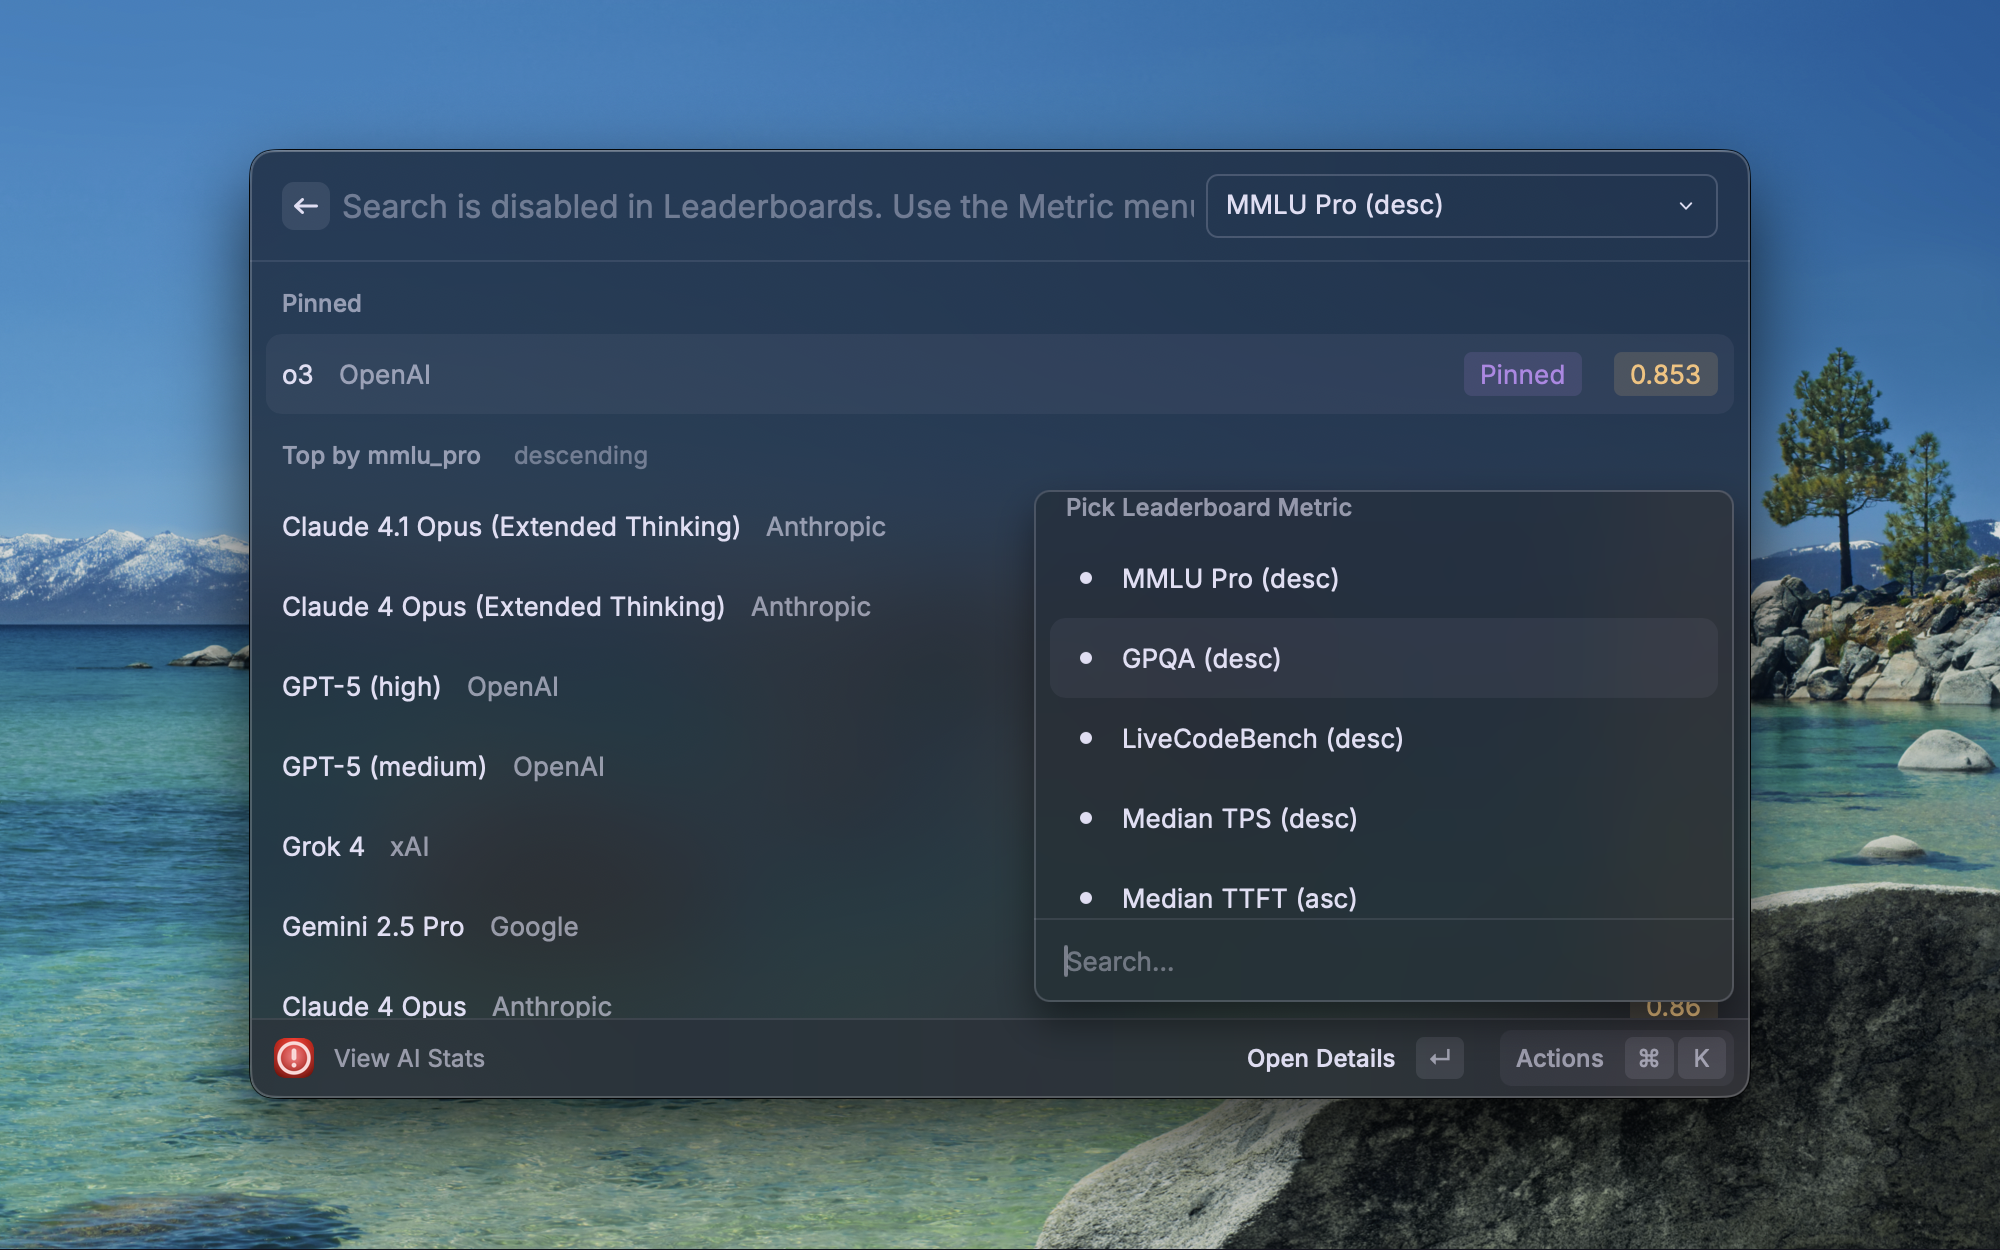
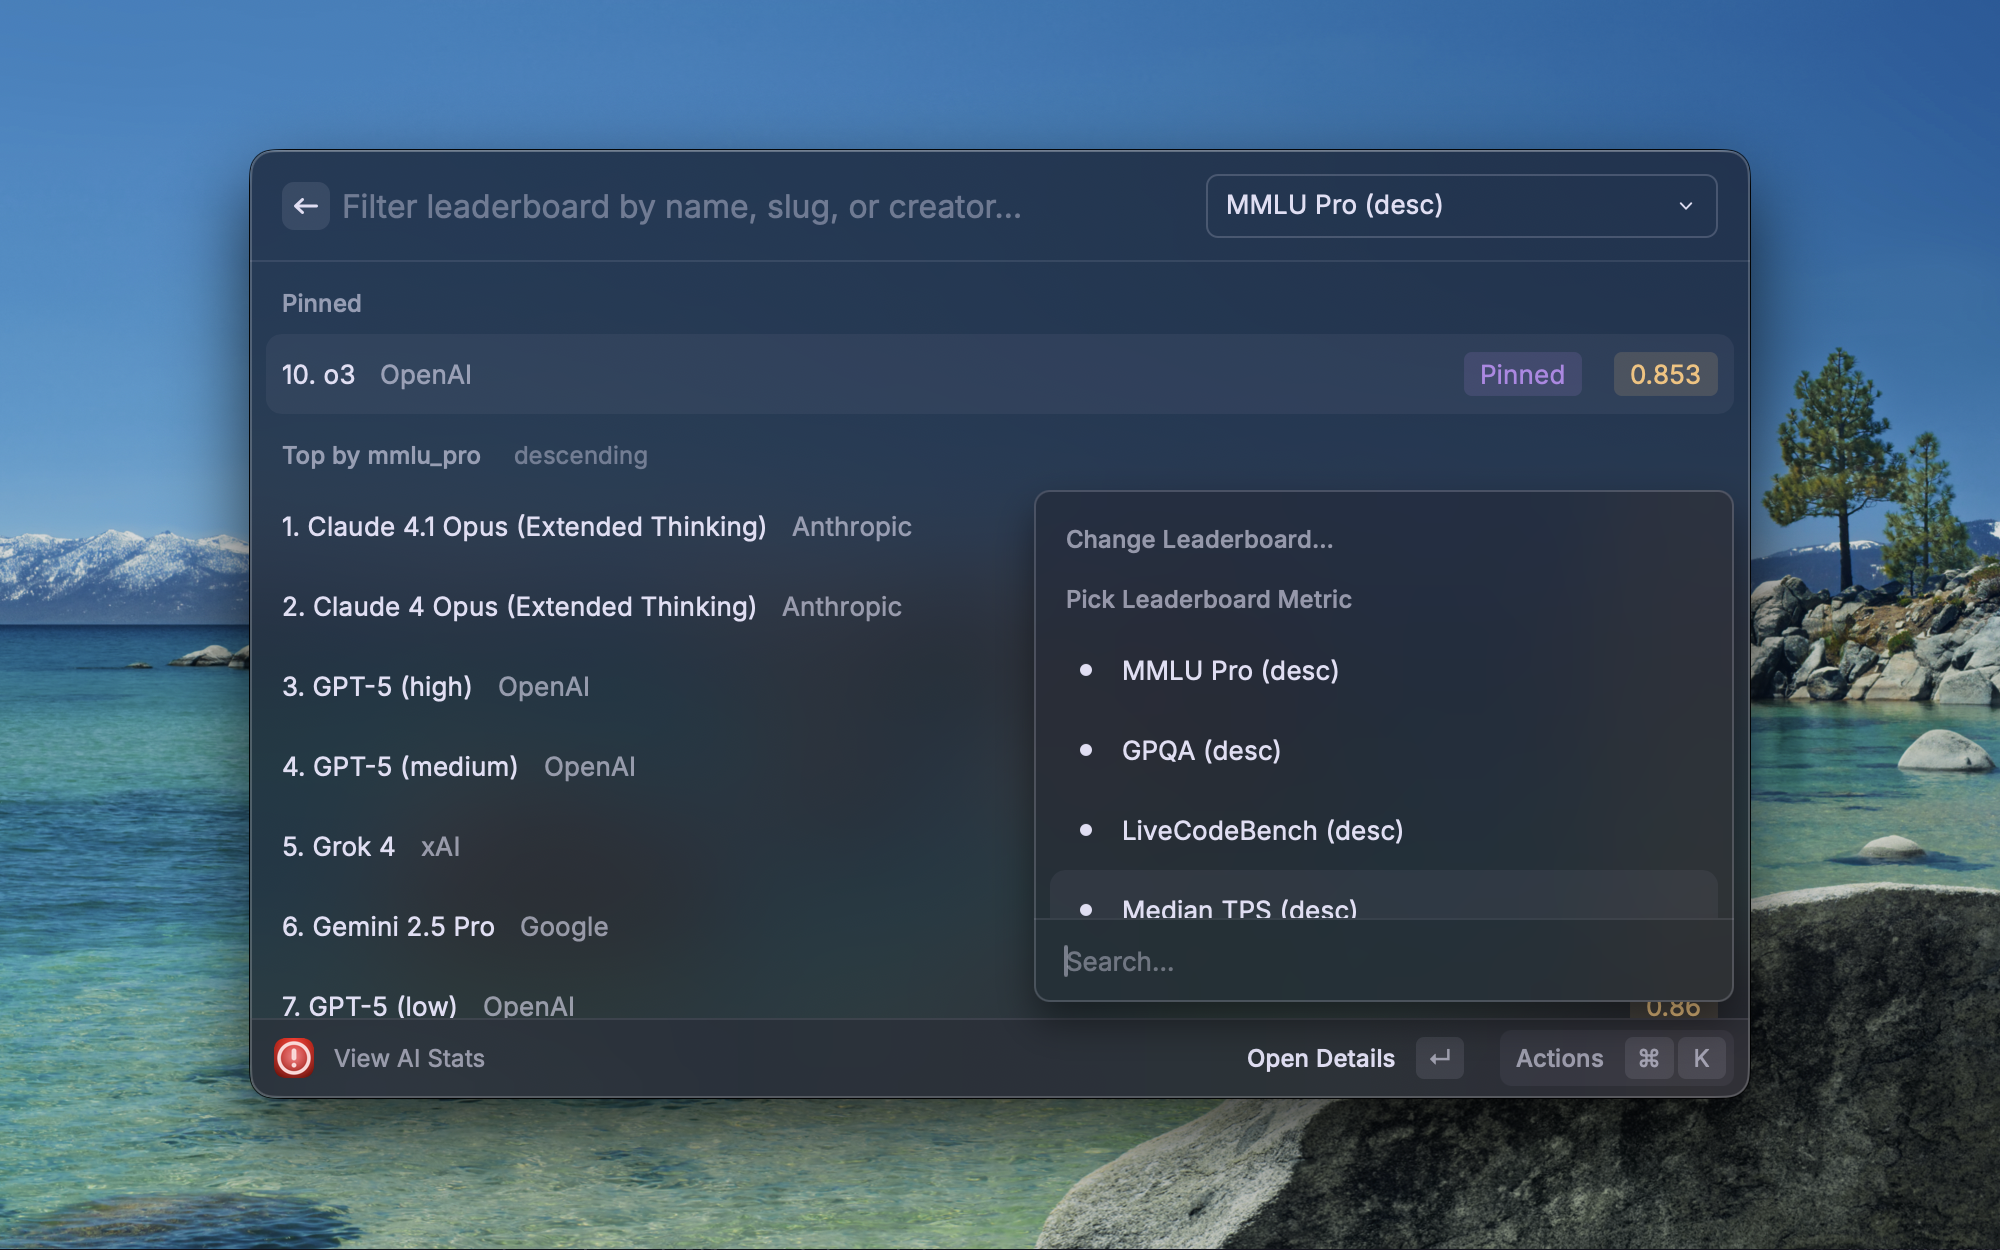
fix: smooth loading: centered spinners + ~120ms gating, skeletons added, no duplicate fetch/jitter
leaderboards: search by name/slug/creator, rank prefixes from metric slice, pinned skeletons + rows handled cleanly

pinning: unified across views, instant sync w/ overridePinnedIds, always accurate (merged + sorted), N/A metrics shown last

diff --git a/src/view_ui.tsx b/src/view_ui.tsx
@@ -93,9 +93,7 @@ export default function View() {
     <List
       isLoading={listLoading}
       searchBarPlaceholder={
-        mode === "search"
-          ? "Search models by name, slug, or creator…"
-          : "Search is disabled in Leaderboards. Use the Metric menu to change leaderboard."
+        mode === "search" ? "Search models by name, slug, or creator…" : "Filter leaderboard by name, slug, or creator…"
       }
       onSearchTextChange={(t) => setSearchText(t)}
       searchText={searchText}
@@ -152,6 +150,7 @@ export default function View() {
           pinnedIds={pinnedIds}
           addPin={addPin}
           removePin={removePin}
+          searchText={searchText}
         />
       )}
     </List>
@@ -185,6 +184,7 @@ function SearchSection({
 }: SearchSectionProps) {
   const [q, setQ] = useState("");
   const debounce = useRef<ReturnType<typeof setTimeout> | null>(null);
+  const [showSkel, setShowSkel] = useState(false);
 
   // forward loading state to parent List
   const {
@@ -211,27 +211,54 @@ function SearchSection({
   );
 
   useEffect(() => {
-    onLoadingChange(isLoading && rows.length === 0);
+    const shouldShow = isLoading && rows.length === 0;
+    let t: ReturnType<typeof setTimeout> | null = null;
+    if (shouldShow) {
+      t = setTimeout(() => onLoadingChange(true), 120);
+    } else {
+      onLoadingChange(false);
+    }
+    return () => {
+      if (t) clearTimeout(t);
+    };
   }, [isLoading, rows, onLoadingChange]);
-  // forward loading state handled above; debounce keeps transitions smooth
-  // initialize debounced search
+  // Debounced skeleton reveal to avoid flashing on quick cache hits
   useEffect(() => {
-    setQ(searchText);
-  }, []);
+    const shouldShow = isLoading && rows.length === 0;
+    let t: ReturnType<typeof setTimeout> | null = null;
+    if (shouldShow) {
+      t = setTimeout(() => setShowSkel(true), 120);
+    } else {
+      setShowSkel(false);
+    }
+    return () => {
+      if (t) clearTimeout(t);
+    };
+  }, [isLoading, rows]);
 
   // React to parent search text or creator filter changes
   useEffect(() => {
+    // Avoid duplicate initial fetch when value hasn't changed
+    if (searchText === q) return;
     if (debounce.current) clearTimeout(debounce.current);
     debounce.current = setTimeout(() => setQ(searchText), 250);
     return () => {
       if (debounce.current) clearTimeout(debounce.current);
     };
-  }, [searchText]);
+  }, [searchText, q]);
 
-  const { pinned: pinnedRows, unpinned: listRows } = splitPinned(rows, pinnedIds);
+  // Always include pinned models even if they don't match the current query
+  const { pinnedModels: pinnedFull } = usePinnedModelsData(MODEL_FULL_COLUMNS, pinnedIds);
+  const mergedMap = new Map<string, Model>();
+  rows.forEach((r) => mergedMap.set(r.id, r));
+  pinnedFull.forEach((m) => {
+    if (pinnedIds.includes(m.id) && !mergedMap.has(m.id)) mergedMap.set(m.id, m as Model);
+  });
+  const mergedRows = Array.from(mergedMap.values());
+  const { pinned: pinnedRows, unpinned: listRows } = splitPinned(mergedRows, pinnedIds);
   const updatedLabel = rows.length > 0 && rows[0]?.last_seen ? `Updated ${timeAgo(rows[0].last_seen)}` : undefined;
 
-  const showSearchSkeleton = isLoading && rows.length === 0;
+  const showSearchSkeleton = showSkel;
 
   return (
     <>
@@ -426,6 +453,7 @@ type LeaderboardSectionProps = {
   pinnedIds: string[];
   addPin: (id: string) => void | Promise<void>;
   removePin: (id: string) => void | Promise<void>;
+  searchText: string;
 };
 
 function LeaderboardSection({
@@ -436,8 +464,11 @@ function LeaderboardSection({
   pinnedIds,
   addPin,
   removePin,
+  searchText,
 }: LeaderboardSectionProps) {
   const isAsc = useMemo(() => METRIC_ASC[metric], [metric]);
+  const [showSkel, setShowSkel] = useState(false);
+  const [showPinnedSkel, setShowPinnedSkel] = useState(false);
 
   const {
     data: rows = [],
@@ -461,12 +492,14 @@ function LeaderboardSection({
     { keepPreviousData: false },
   );
 
-  useEffect(() => {
-    onLoadingChange(isLoading && rows.length === 0);
-  }, [isLoading, rows, onLoadingChange]);
+  // Parent spinner and skeletons are shown with a short delay to avoid flashes
+  // of loading UI on quick cache hits
 
   // Universal pinned models: fetch by IDs via shared hook so pins appear regardless of leaderboard slice
-  const { pinnedModels, isLoading: pinnedLoading } = usePinnedModelsData(`id,name,slug,creator_name,${metric}`);
+  const { pinnedModels, isLoading: pinnedLoading } = usePinnedModelsData(
+    `id,name,slug,creator_name,${metric}`,
+    pinnedIds,
+  );
 
   // helper to render a leaderboard row with actions and tags
   const renderItem = (r: Model) => {
@@ -479,10 +512,12 @@ function LeaderboardSection({
     } else {
       accessories.push({ tag: { value: "N/A", color: Color.SecondaryText } });
     }
+    const rank = rankById.get(r.id);
+    const title = `${rank ? `${rank}. ` : ""}${r.name ?? r.slug ?? "Model"}`;
     return (
       <List.Item
         key={r.id}
-        title={r.name ?? r.slug ?? "Model"}
+        title={title}
         subtitle={r.creator_name ?? ""}
         accessories={accessories}
         actions={
@@ -543,22 +578,23 @@ function LeaderboardSection({
   };
 
   // Merge immediate pinned from current leaderboard slice (no fetch delay) with fetched pinned records
-  const pinnedFromSlice = rows.filter((r) => {
-    const v = (r as unknown as Record<string, number | null>)[metric];
-    return v != null && v !== 0 && pinnedIds.includes(r.id);
-  });
+  const pinnedFromSlice = rows.filter((r) => pinnedIds.includes(r.id));
   const mergedPinned = new Map<string, Model>();
   pinnedFromSlice.forEach((m) => mergedPinned.set(m.id, m as unknown as Model));
   pinnedModels.forEach((m) => {
-    const v = (m as unknown as Record<string, number | null>)[metric];
-    if (v != null && v !== 0 && pinnedIds.includes(m.id) && !mergedPinned.has(m.id)) {
+    if (pinnedIds.includes(m.id) && !mergedPinned.has(m.id)) {
       mergedPinned.set(m.id, m as unknown as Model);
     }
   });
   const pinnedRows = Array.from(mergedPinned.values()).sort((a, b) => {
-    const av = (a as unknown as Record<string, number | null>)[metric] ?? 0;
-    const bv = (b as unknown as Record<string, number | null>)[metric] ?? 0;
-    return METRIC_ASC[metric] ? av - bv : bv - av;
+    const av = (a as unknown as Record<string, number | null>)[metric];
+    const bv = (b as unknown as Record<string, number | null>)[metric];
+    const aMissing = av == null || av === 0;
+    const bMissing = bv == null || bv === 0;
+    if (aMissing && bMissing) return 0;
+    if (aMissing) return 1; // push a to bottom
+    if (bMissing) return -1; // push b to bottom
+    return METRIC_ASC[metric] ? (av as number) - (bv as number) : (bv as number) - (av as number);
   });
   // Filter main rows for current metric to avoid flashing in 'no data' entries while new metric loads
   const rowsForMetric = rows.filter((r) => {
@@ -566,8 +602,53 @@ function LeaderboardSection({
     return v != null && v !== 0;
   });
   const { unpinned: listRows } = splitPinned(rowsForMetric, pinnedIds);
-  const showSkeleton = isLoading && rowsForMetric.length === 0 && pinnedRows.length === 0;
-  const showPinnedSkeleton = pinnedLoading && pinnedRows.length === 0 && pinnedIds.length > 0;
+  // Build rank map from the full (unfiltered) metric-eligible rows returned by the query
+  const rankById = useMemo(() => new Map<string, number>(rowsForMetric.map((r, i) => [r.id, i + 1])), [rowsForMetric]);
+  // Lightweight text filter for leaderboard search
+  const q = searchText.trim().toLowerCase();
+  const matches = (r: Model) => {
+    if (!q) return true;
+    const name = (r.name ?? "").toLowerCase();
+    const slug = (r.slug ?? "").toLowerCase();
+    const creator = (r.creator_name ?? "").toLowerCase();
+    return name.includes(q) || slug.includes(q) || creator.includes(q);
+  };
+  const pinnedRowsFiltered = pinnedRows.filter(matches);
+  const listRowsFiltered = listRows.filter(matches);
+  const showSkeleton = showSkel;
+  const showPinnedSkeleton = showPinnedSkel;
+
+  // Delay show spinner/skeleton to avoid flicker when data is immediately available
+  useEffect(() => {
+    const shouldShow = isLoading && rowsForMetric.length === 0 && pinnedRows.length === 0;
+    let t: ReturnType<typeof setTimeout> | null = null;
+    if (shouldShow) {
+      t = setTimeout(() => {
+        onLoadingChange(true);
+        setShowSkel(true);
+      }, 120);
+    } else {
+      onLoadingChange(false);
+      setShowSkel(false);
+    }
+    return () => {
+      if (t) clearTimeout(t);
+    };
+  }, [isLoading, rowsForMetric.length, pinnedRows.length, onLoadingChange]);
+
+  // Delay pinned skeletons as well to avoid brief flashes on quick cache hits
+  useEffect(() => {
+    const shouldShowPinned = pinnedLoading && pinnedRows.length === 0 && pinnedIds.length > 0;
+    let t: ReturnType<typeof setTimeout> | null = null;
+    if (shouldShowPinned) {
+      t = setTimeout(() => setShowPinnedSkel(true), 120);
+    } else {
+      setShowPinnedSkel(false);
+    }
+    return () => {
+      if (t) clearTimeout(t);
+    };
+  }, [pinnedLoading, pinnedRows.length, pinnedIds.length]);
 
   return (
     <>
@@ -598,11 +679,11 @@ function LeaderboardSection({
           ))}
         </List.Section>
       )}
-      {pinnedRows.length > 0 && (
-        <List.Section title="Pinned">{pinnedRows.map((r) => renderItem(r as unknown as Model))}</List.Section>
+      {pinnedRowsFiltered.length > 0 && (
+        <List.Section title="Pinned">{pinnedRowsFiltered.map((r) => renderItem(r as unknown as Model))}</List.Section>
       )}
       <List.Section title={`Top by ${metric}`} subtitle={isAsc ? "ascending" : "descending"}>
-        {listRows.map((r) => renderItem(r as unknown as Model))}
+        {listRowsFiltered.map((r) => renderItem(r as unknown as Model))}
       </List.Section>
     </>
   );

diff --git a/src/lib/usePinnedModels.ts b/src/lib/usePinnedModels.ts
@@ -40,9 +40,10 @@ export function usePinnedModels(maxPins: number = 10) {
 
 // Universal pinned models data hook
 // Usage: const { pinnedModels } = usePinnedModelsData("id,name,slug,creator_name,metric")
-export function usePinnedModelsData(columns: string) {
-  const { value: pinnedIds = [] } = useLocalStorage<string[]>("ai-stats-pinned-ids", []);
-  const idsKey = pinnedIds.join(",");
+export function usePinnedModelsData(columns: string, overridePinnedIds?: string[]) {
+  const { value: lsPinnedIds = [] } = useLocalStorage<string[]>("ai-stats-pinned-ids", []);
+  const effectiveIds = (overridePinnedIds ?? lsPinnedIds ?? []).filter(Boolean);
+  const idsKey = effectiveIds.join(",");
   const {
     data = [],
     isLoading,

diff --git a/CHANGELOG.md b/CHANGELOG.md
@@ -8,6 +8,8 @@
 - Leaderboards: Pinned section at the top with models sorted by the current metric order (asc/desc)
 - Skeleton loading: lightweight placeholders for Search, Leaderboards main list, and the Leaderboards Pinned section
 - Model Detail: preference `AFTER_PIN_BEHAVIOR` to return to list or stay on detail after pin/unpin
+- Leaderboards: Search filtering by name, slug, or creator (preserves true rank)
+- Leaderboards: Rank number shown to the left of each model name
 
 ### Changed
 
@@ -16,6 +18,7 @@
   - Switch between Search and Leaderboards: Cmd+L
   - Change Leaderboard…: Cmd+P
 - Start in Search always; Mode dropdown is controlled (no persistence)
+- Leaderboards search bar placeholder updated to reflect filtering capability
 
 ### Fixed
 
@@ -23,6 +26,7 @@
 - Debounced search cleanup avoids double-renders and memory leaks
 - Detail view now fetches full model data by ID when opened from Leaderboards (which has partial columns)
 - Pinned models no longer disappear during fetch; merge pinned from current slice with fetched pinned and keep previous data
+- Smoothed cache revalidation: add ~120ms delay before showing parent spinner/skeletons; avoid duplicate initial fetch; apply same gating to Leaderboards to prevent quick-flash loading states
 
 ---
 
